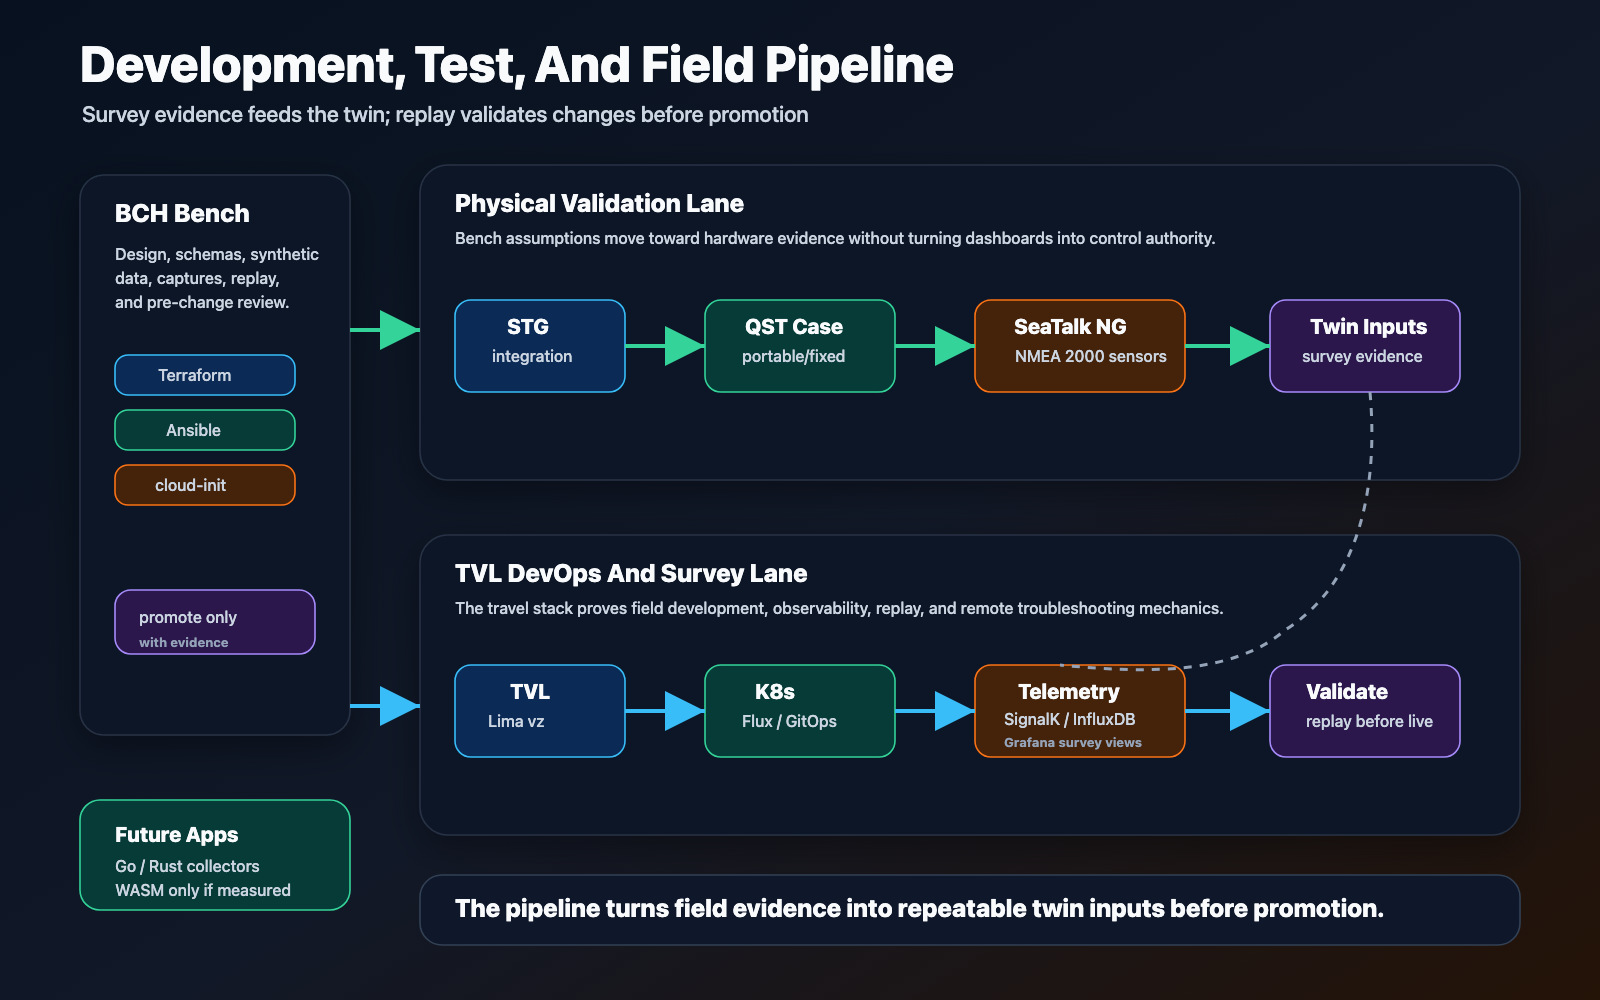
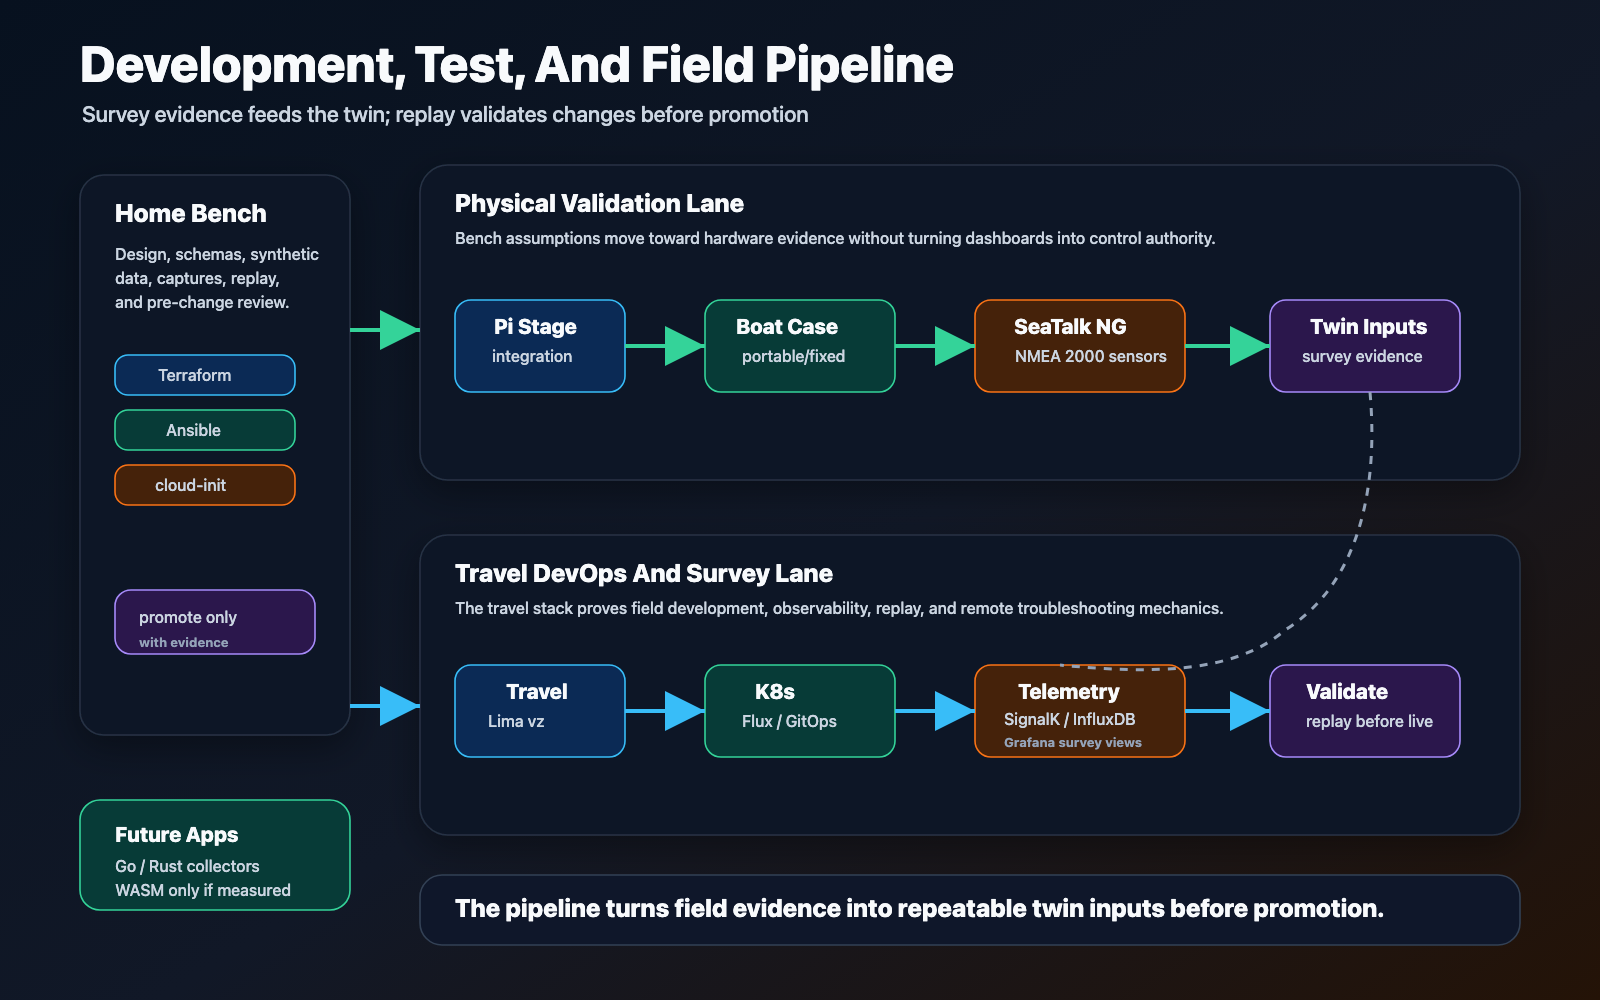
Address Grok v1 freeze review

diff --git a/docs/evidence.md b/docs/evidence.md
@@ -46,7 +46,7 @@ private locations, detailed timings, or dollar claims.
 ## SignalK Survey Intake Example
 
 The image below is a public-safe SignalK-style intake visual. It is based on
-the project shape: a running TVL SignalK service, normalized marine telemetry
+the project shape: a field/travel SignalK service, normalized marine telemetry
 paths, and the owner-supplied Maretron DSM410 device-selection photos from an
 on-boat survey. It is redrawn with synthetic/redacted values, so raw captures,
 live endpoints, exact positions, and unique device identifiers are not
@@ -66,11 +66,11 @@ from synthetic/redacted values. It shows the kind of GPS location, vessel-state
 panels, replay trend, and SignalK -> InfluxDB -> Grafana evidence that the
 private project preserves before treating telemetry work as complete.
 
-![Public-safe Grafana telemetry evidence screenshot](../assets/evidence/grafana-marina-telemetry-public-safe.png)
+![Public-safe Grafana telemetry evidence screenshot](../assets/evidence/grafana-telemetry-public-safe.png)
 
-The marker represents the home marina area, but exact coordinates, exact
-position, raw telemetry, live dashboard endpoints, and actuator/control paths
-are intentionally omitted.
+The marker represents a synthetic offshore sample, not a real slip, marina, or
+track. Exact coordinates, raw telemetry, live dashboard endpoints, and
+actuator/control paths are intentionally omitted.
 
 ## Public Demo Data
 

diff --git a/docs/system-platform.md b/docs/system-platform.md
@@ -81,9 +81,9 @@ answered against recorded or synthetic evidence.
 Editable source:
 [development-field-pipeline.svg](../assets/diagrams/development-field-pipeline.svg).
 
-The platform is also a delivery system. The diagram uses internal shorthand:
-home bench (BCH), Pi staging (STG), boat-side node/case (QST), and travel
-laptop (TVL).
+The platform is also a delivery system. The diagram uses public-safe
+environment classes: home bench, Pi staging, boat-side node/case, and travel
+laptop.
 
 Home bench work feeds two linked paths: a physical validation lane from Pi
 staging toward a boat-side node/case and real SeaTalk NG / NMEA 2000 sensor
@@ -133,7 +133,7 @@ topology:
 - Telemetry inspection: SignalK, InfluxDB, and Grafana.
 - Project control: local and edge GitLab records, hosted backup, and an
   approved GitHub mirror path.
-- Model and runtime experiments: Tower as a private local model lane, plus
+- Model and runtime experiments: a private local model lane, plus
   possible future Go / Rust collectors and narrowly scoped WASM validators
   where measured benefit justifies the machinery.
 

diff --git a/docs/agentic-engineering.md b/docs/agentic-engineering.md
@@ -43,9 +43,9 @@ estimate, classify, summarize, or propose, but it must remain subordinate to a
 bounded system. Model output is a request to a bounded controller, never a helm
 command.
 
-Tower is the private local lane for local LLM and model-training experiments.
-That does not change the control boundary: model work remains research,
-analysis, or bounded assistance until separately reviewed and approved.
+A private local lane supports local LLM and model-training experiments. That
+does not change the control boundary: model work remains research, analysis,
+or bounded assistance until separately reviewed and approved.
 
 Publicly, that means:
 

diff --git a/GITHUB_PROFILE.md b/GITHUB_PROFILE.md
@@ -5,8 +5,9 @@
 Teaching a boat to dock itself, with evidence before authority.
 
 BoatAutonomy is a public-safe view of replay-first marine telemetry,
-instrumented survey evidence, and supervised docking-assist research. The work
-combines replayable edge systems, a developing digital-twin substrate, safety
+instrumented survey evidence, and research toward supervised docking assist.
+The work combines replayable edge systems, a developing digital-twin
+substrate, safety
 boundaries, Kubernetes lab/staging operations, and multi-agent software
 engineering.
 

diff --git a/README.md b/README.md
@@ -30,7 +30,7 @@ credentials, repair procedures, or operational runbooks.
 
 ## Why Read This
 
-That human problem is simple to understand, but technically hard to address
+The problem is simple to understand, but technically hard to address
 responsibly. A useful system has to observe before it estimates, replay before
 it recommends, and earn trust before it gets anywhere near authority.
 
